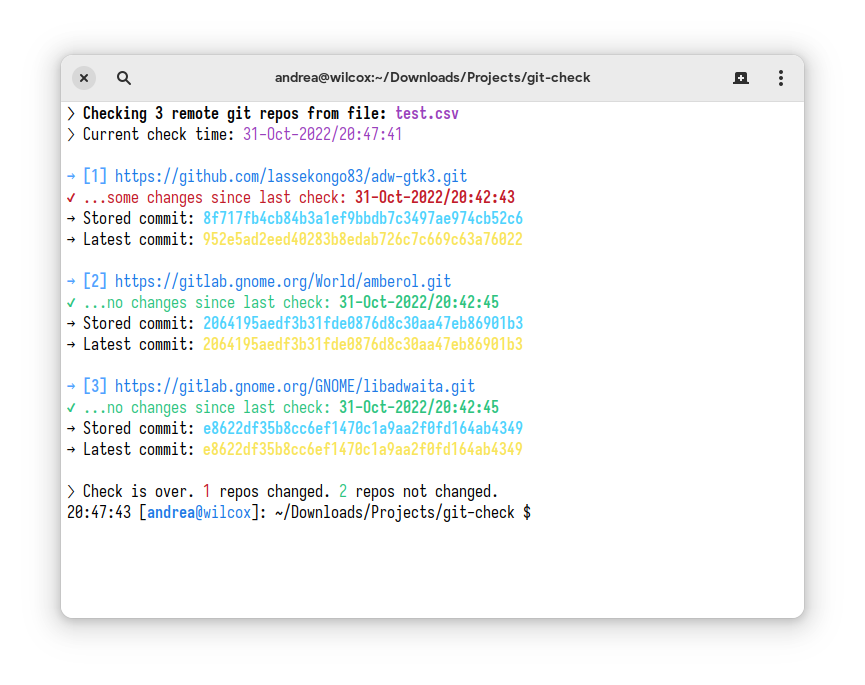
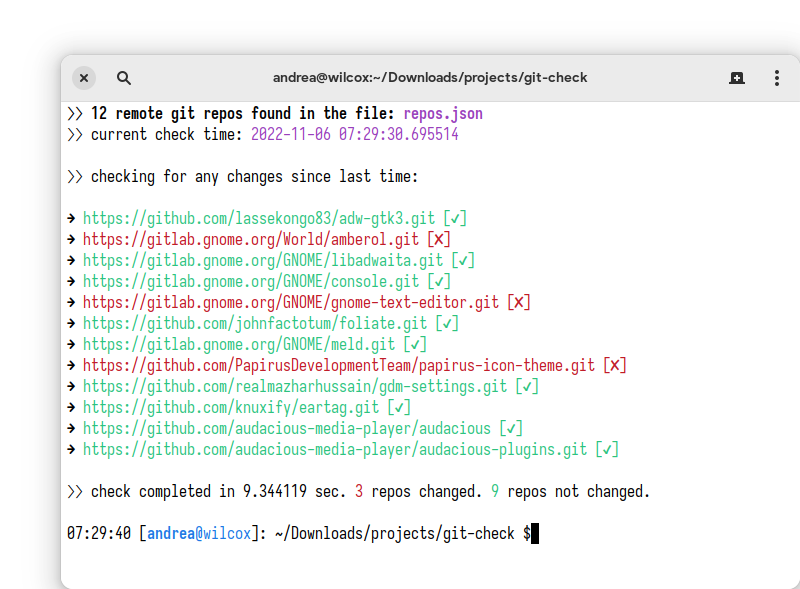
simplified output messages

Changed region(s): [[0.0625, 0.0917, 0.9375, 1.0], [0.9688, 0.0611, 1.0, 0.1222], [0.8438, 0.0917, 0.9062, 0.1222]]

diff --git a/README.md b/README.md
@@ -8,12 +8,12 @@ I wrote this utility to avoid manually check of every git repo that I compile us
 usage: git-check.py [-h] [-v] [-c] jsonfile
 
 positional arguments:
-  jsonfile          a json file with a git repos list to check
+  jsonfile          a json file with a git repos list to check (a backup copy file is made before update the file itself)
 
 options:
   -h, --help        show this help message and exit
   -v, --verbose     show commits info while checking git repos
-  -c, --check_only  do not update filename with last commit info
+  -c, --check_only  do not update filename (and do not create the backup file) with updated information
 ```
 
 **Note 1:**
@@ -37,8 +37,5 @@ _*jsonfile.json*_ must be a json formatted file, e.g.:
 **Note 2:**<br />
 When add a new git repo to the file, Last_Check and Current_Commit keys can be any numeric value.<br />
 These values will be overwritten,with correct data,after first run script unless you use the `--check_only` argument.
-
-**Note 3:**<br />
-A backup copy of then json file is always created before update the json file itself. 
 
 ![Screenshot](https://raw.github.com/dasnoopy/git-check/main/screenshot.png)
